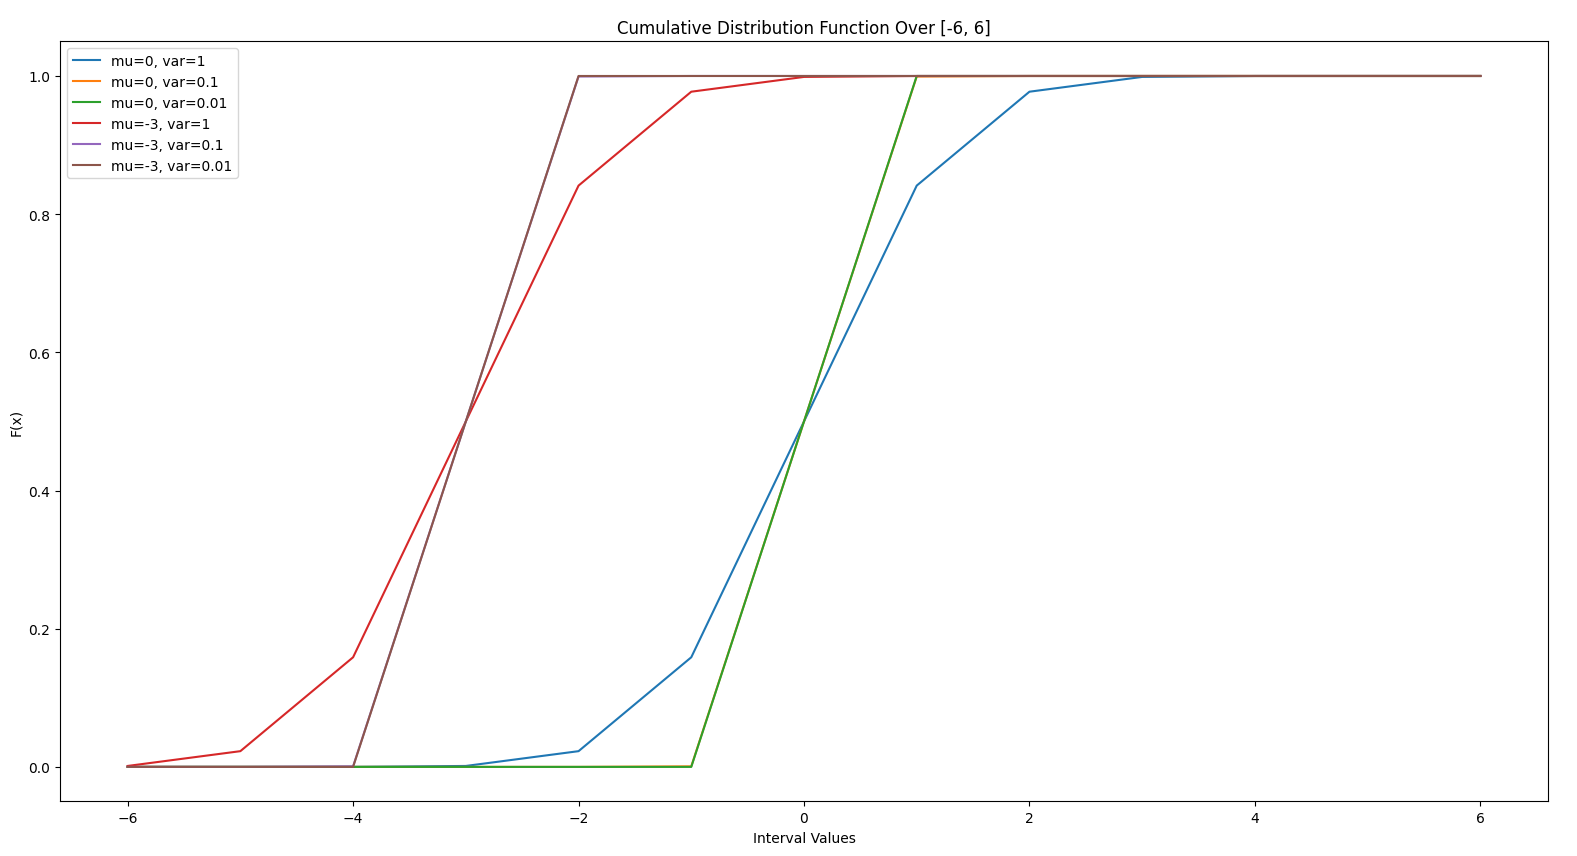
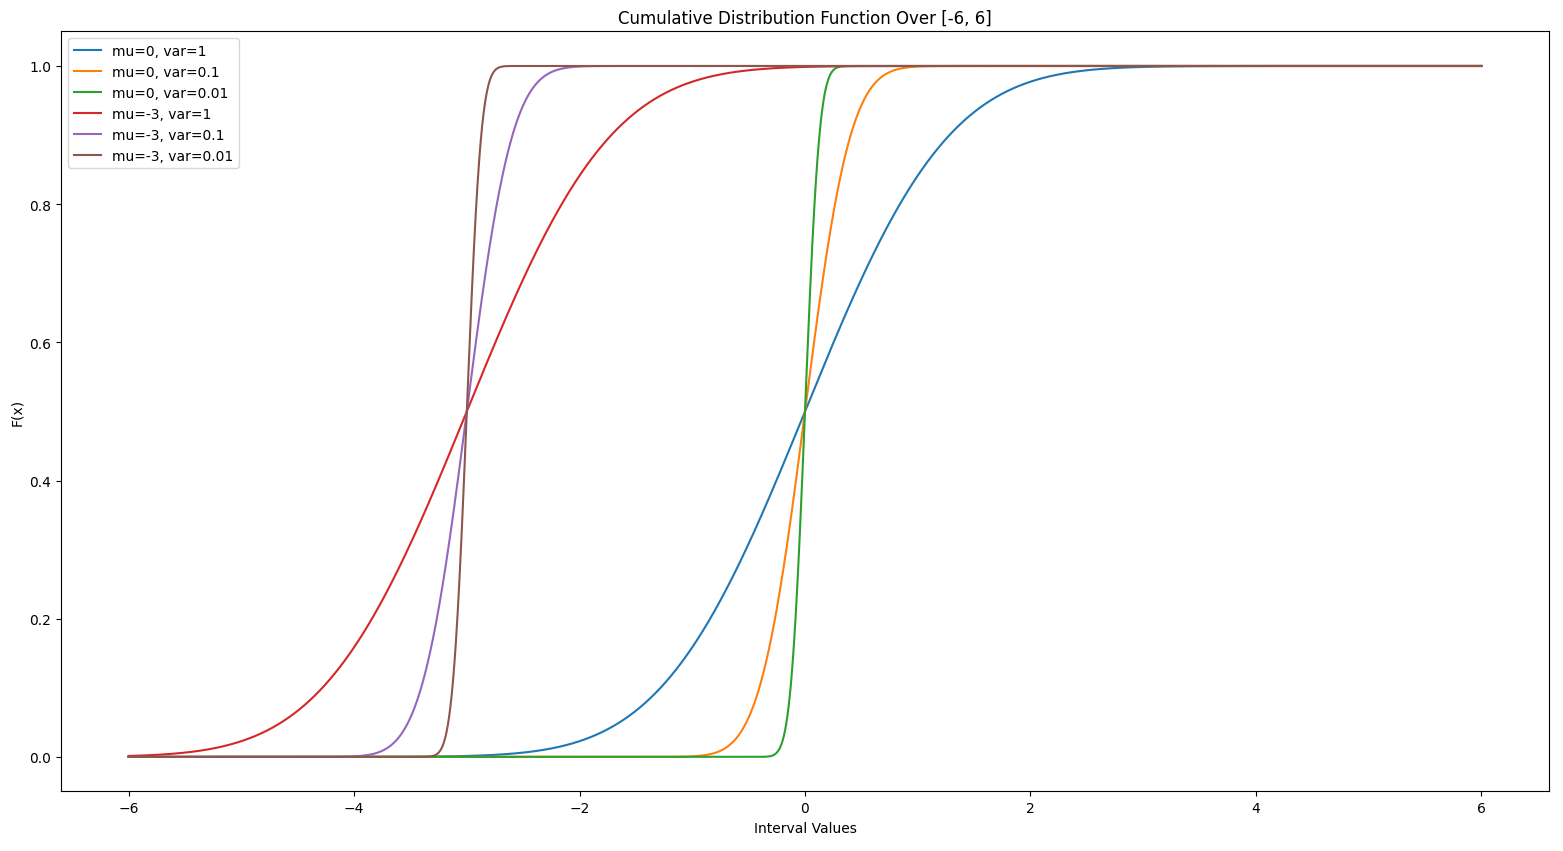
Adjusted for smoother pdf and cdf graphs using np.linspace

diff --git a/Gaussian Distributions/Suy_Devin_Src.py b/Gaussian Distributions/Suy_Devin_Src.py
@@ -39,11 +39,11 @@ def get_plot(start_val, end_val, use_pdf=True, mu=0, var=1):
     output = {}
     # Map using probability density function
     if use_pdf:
-        for val in range(start_val, end_val+1): output[val] = pdf(val, mu, var)
+        for val in np.linspace(start_val, end_val, 10000): output[val] = pdf(val, mu, var)
         
     # Map values using cumulative distribution function
     else:
-        for val in range(start_val, end_val+1): output[val] = cdf(val, mu, var)
+        for val in np.linspace(start_val, end_val, 10000): output[val] = cdf(val, mu, var)
 
     return output 
 
@@ -56,7 +56,7 @@ def generate_all_plots(start_val=-6, end_val=6):
     # Maps mu_var argument ID to the corresponding plot values
     plot_vals_pdf = OrderedDict()
     plot_vals_cdf = OrderedDict()
-    x_vals = [i for i in range(start_val, end_val+1)]
+    x_vals = np.linspace(start_val, end_val, 10000)
 
     # Generate plots for each of our mu, variance settings
     for i in range(len(mu_var)):
@@ -84,7 +84,7 @@ def generate_all_plots(start_val=-6, end_val=6):
     plt.legend()
     plt.show()
 
-# generate_all_plots()
+generate_all_plots()
 
 
 

diff --git a/Gaussian Distributions/tempCodeRunnerFile.py b/Gaussian Distributions/tempCodeRunnerFile.py
@@ -1,4 +1,1 @@
-    # plt.subplot(1,2,2)
-    # cdf = np.cumsum(hist*w)
-    # plt.plot(cdf)
-    # plt.show()
+generate_all_plots()
